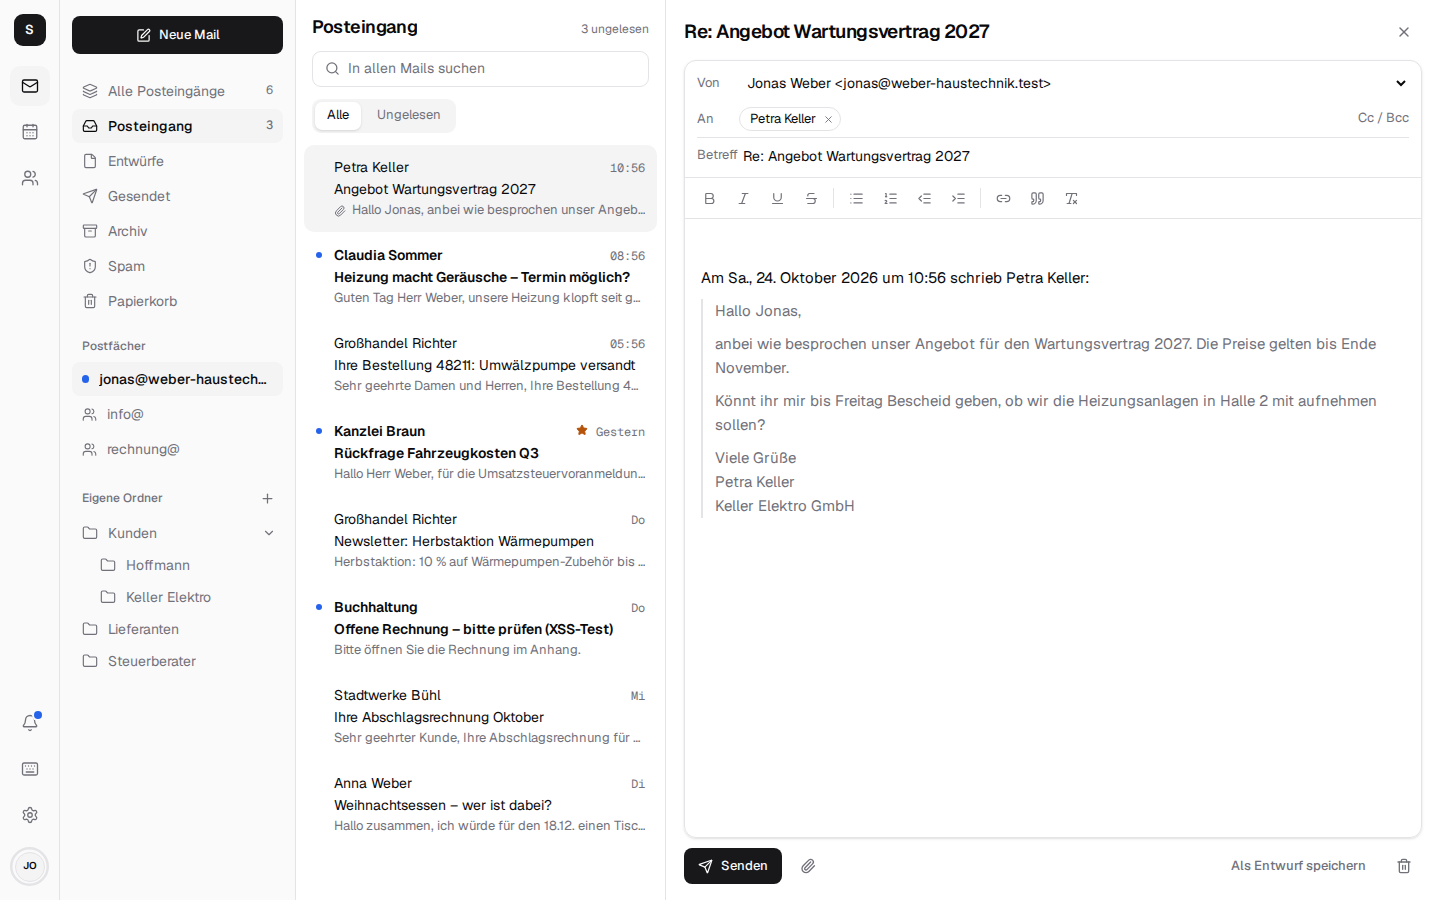
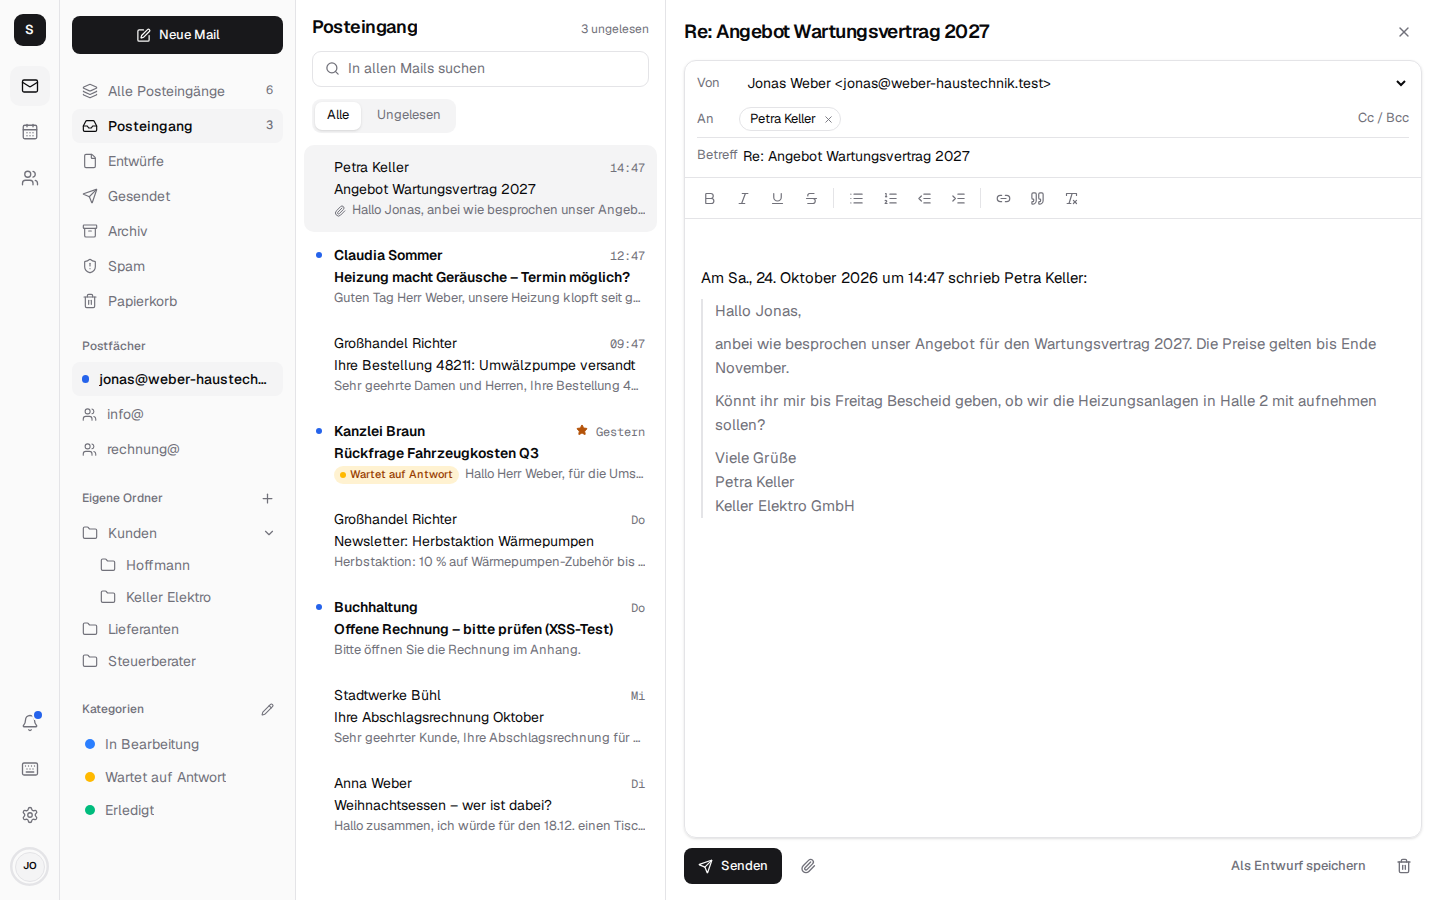
Screenshots: categories in the test data, pointer out of the way
The seed sets "In Bearbeitung" and "Wartet auf Antwort" on a few mails, so the
demo and the pictures show categories. Before each picture the pointer moves
to an empty corner, so no list row shows its hover box.

Changed region(s): [[0.2188, 0.4978, 0.4375, 0.56], [0.0625, 0.7778, 0.1562, 0.9022], [0.625, 0.28, 0.75, 0.3422]]

diff --git a/dev/seed-data.ts b/dev/seed-data.ts
@@ -47,6 +47,8 @@ export type SeedMail = {
   hoursAgo: number;
   seen?: boolean;
   flagged?: boolean;
+  /** Keywords of the default categories (server/categories/categories.ts). */
+  categories?: string[];
   inReplyTo?: string;
   /** An HTML version next to `body`. */
   html?: string;
@@ -127,6 +129,7 @@ export const mails: SeedMail[] = [
     body: "Hallo Herr Weber,\n\nfür die Umsatzsteuervoranmeldung Q3 fehlen uns noch die Tankbelege für den Transporter (September). Können Sie die bis Mittwoch nachreichen?\n\nBeste Grüße\nKanzlei Braun",
     hoursAgo: 26,
     flagged: true,
+    categories: ["wartet-auf-antwort"],
   },
   {
     id: "re-angebot-hoffmann@weber-haustechnik.test",
@@ -171,6 +174,7 @@ export const mails: SeedMail[] = [
     body: "Hallo,\n\nwir bauen gerade ein Einfamilienhaus in Bühl-Weitenung (ca. 160 m²) und suchen einen Betrieb für Wärmepumpe und Fußbodenheizung. Können Sie uns ein Angebot machen? Den Grundriss vom Erdgeschoss habe ich angehängt.\n\nViele Grüße\nThomas Lang",
     hoursAgo: 2,
     attachment: { name: "Grundriss-EG.svg", type: "image/svg+xml", content: FLOOR_PLAN },
+    categories: ["in-bearbeitung"],
   },
   {
     id: "reklamation@example-privat.test",
@@ -181,6 +185,7 @@ export const mails: SeedMail[] = [
     subject: "Wasserhahn tropft wieder",
     body: "Guten Tag,\n\nder Wasserhahn in der Küche, den Sie im August getauscht haben, tropft wieder. Können Sie bitte noch einmal vorbeikommen?\n\nClaudia Sommer",
     hoursAgo: 20,
+    categories: ["wartet-auf-antwort"],
   },
   {
     id: "rechnung-117@keller-elektro.test",

diff --git a/e2e/screenshots.spec.ts b/e2e/screenshots.spec.ts
@@ -1,9 +1,15 @@
 import { expect, type Page, test } from "@playwright/test";
 import { login } from "./helpers";
 
-/** The pictures in the README and the docs. Run with `bun run screenshots`. */
-const shot = (page: Page, name: string) =>
-  page.screenshot({ path: `docs/screenshots/${name}.png`, animations: "disabled" });
+/**
+ * The pictures in the README and the docs. Run with `bun run screenshots`. The pointer goes to
+ * an empty corner first, so no row shows its hover state (the box to pick it).
+ */
+const shot = async (page: Page, name: string) => {
+  const size = page.viewportSize();
+  if (size) await page.mouse.move(size.width - 2, size.height - 2);
+  await page.screenshot({ path: `docs/screenshots/${name}.png`, animations: "disabled" });
+};
 
 /** The open mail is drawn: its text, and the thumbnails of its attachments (pdf.js takes a moment). */
 const mailShown = async (page: Page) => {

diff --git a/dev/seed.ts b/dev/seed.ts
@@ -238,6 +238,7 @@ const importMail = async (
   const keywords = {
     ...(mail.seen ? { $seen: true } : {}),
     ...(mail.flagged ? { $flagged: true } : {}),
+    ...Object.fromEntries((mail.categories ?? []).map((keyword) => [keyword, true])),
   };
   const result = await client.call("Email/import", {
     accountId,

diff --git a/README.md b/README.md
@@ -22,7 +22,7 @@ docker compose -f deploy/compose.yaml up -d
 [FAQ](#-faq) •
 [Dokumentation](https://firsttris.github.io/sekretaer/)
 
-<img src="docs/screenshots/mail.png" alt="Sekretär im Browser: Posteingang mit Ordnern, gemeinsamen Postfächern info@ und rechnung@ und einer geöffneten Mail mit Vorschau des PDF-Anhangs" width="900">
+<img src="docs/screenshots/mail.png" alt="Sekretär im Browser: Posteingang mit Ordnern, gemeinsamen Postfächern info@ und rechnung@, Kategorien und einer geöffneten Mail mit Vorschau des PDF-Anhangs" width="900">
 
 </div>
 
@@ -120,7 +120,7 @@ und unter `https://<Ihre Domain>` anmelden. DNS-Einträge, Backups und Updates s
 
 <table>
   <tr>
-    <td><img src="docs/screenshots/shared-mailbox.png" alt="Gemeinsames Postfach info@ mit einer Kundenanfrage zur Wärmepumpe"></td>
+    <td><img src="docs/screenshots/shared-mailbox.png" alt="Gemeinsames Postfach info@: Kundenanfrage zur Wärmepumpe mit der Kategorie „In Bearbeitung“"></td>
     <td><img src="docs/screenshots/compose.png" alt="Antwort schreiben mit Formatierungsleiste, Zitat und Absender-Auswahl"></td>
   </tr>
   <tr>
